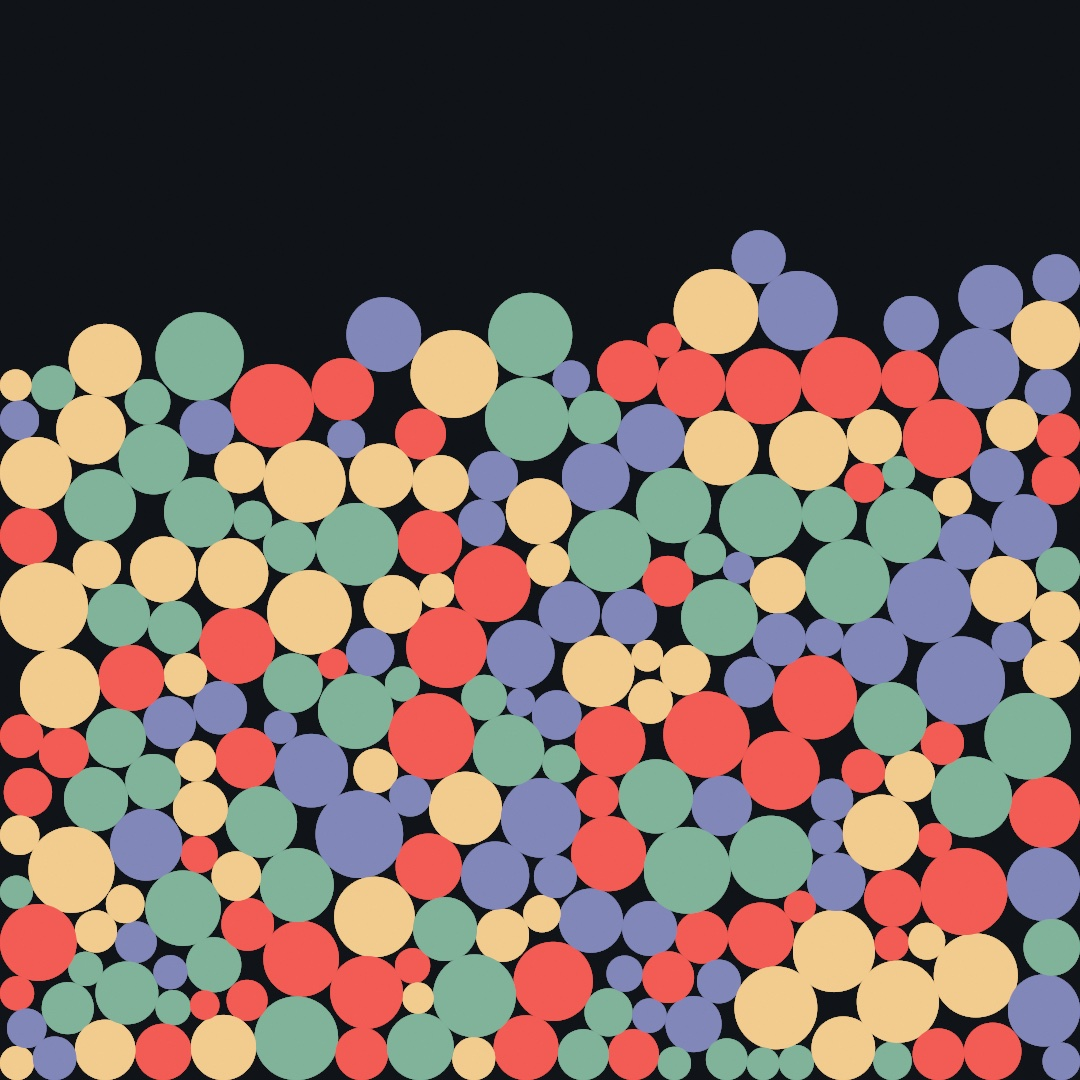
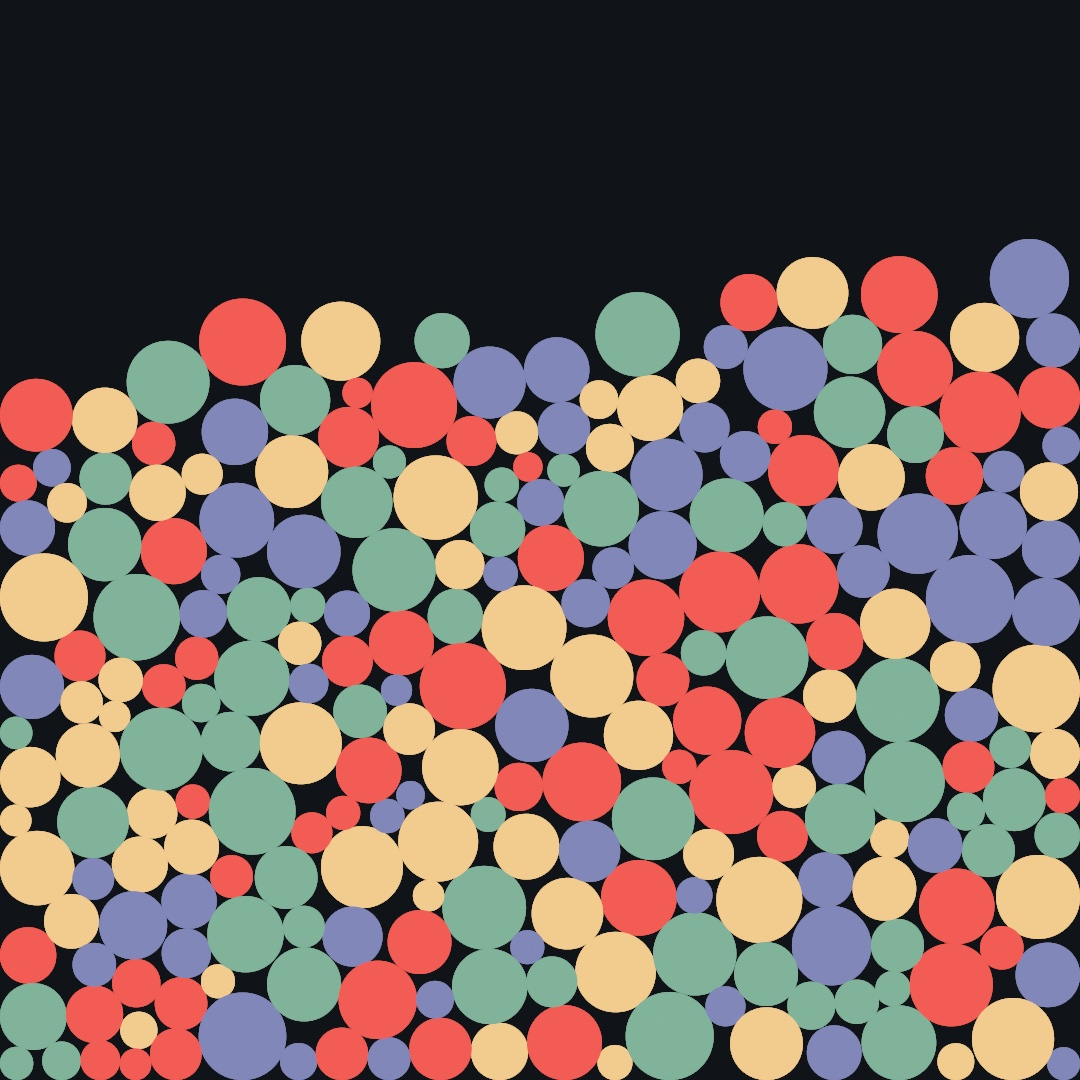
Make World disk collisions reproducible across runs
The collision pass iterated the spatial-hash Dictionary directly, and
position-mutating pair resolution is order-sensitive, so a seeded pile
settled differently on every launch (Swift randomizes hash order per
process). The pass now walks particles in index order with a fixed
3x3 cell scan, the same determinism rule Boids and the WFC solver
follow. The Guide's Pile figure now renders byte-identically run to
run (verified by hashing consecutive renders); PhysicsTests pass.

diff --git a/Sources/OllinPhysics/World.swift b/Sources/OllinPhysics/World.swift
@@ -226,16 +226,21 @@ public final class World {
             grid[cell, default: []].append(i)
         }
 
-        // Each disk against its own and the eight neighbouring buckets. The
-        // `j > i` guard resolves every pair exactly once.
-        for (cell, bucket) in grid {
+        // Each disk against its own and the eight neighbouring buckets, walked
+        // in particle-index order with a fixed cell scan. Resolution shifts
+        // positions as it goes, so the pair order changes the outcome; a
+        // Dictionary walk here would reorder per process and a seeded pile
+        // would settle differently on every run. The `j > i` guard resolves
+        // every pair exactly once.
+        for i in particles.indices where particles[i].radius > 0 {
+            let p = particles[i].position
+            let cx = Int((p.x / cellSize).rounded(.down))
+            let cy = Int((p.y / cellSize).rounded(.down))
             for dx in -1 ... 1 {
                 for dy in -1 ... 1 {
-                    guard let neighbours = grid[Cell(x: cell.x + dx, y: cell.y + dy)] else { continue }
-                    for i in bucket {
-                        for j in neighbours where j > i {
-                            resolveCollision(particles[i], particles[j])
-                        }
+                    guard let neighbours = grid[Cell(x: cx + dx, y: cy + dy)] else { continue }
+                    for j in neighbours where j > i {
+                        resolveCollision(particles[i], particles[j])
                     }
                 }
             }

diff --git a/CLAUDE.md b/CLAUDE.md
@@ -158,7 +158,7 @@ A few load-bearing rules recur across the satellites, so they're stated once her
 
 - **Video playback** (`OllinVideo` satellite). `VideoPlayer` (`@MainActor`) plays a file as a live texture-backed `Image` via `AVPlayerItemVideoOutput` → `CVMetalTextureCache` → `drawImage` (zero CPU copies); `play` / `pause` / `seek(to:)` / `loops` / `rate` / `volume`, `duration` / `size` (async), `snapshot()` for CPU/vision. Conforms `FrameSource` + `VideoFeed`, so a tracker attaches and analyzes the footage as it plays (via a second video output). **Headless export is deterministic:** under `OllinApp.isRenderingHeadless` (a `package` flag every offline driver sets) the player swaps to a virtual playhead advanced by the sketch's per-frame pass (`FrameAdvancing`, now `package` so satellites conform; isolated `@MainActor` conformance) and decodes by timestamp through a sequential `AVAssetReader` (`HeadlessVideoReader`), so exported frame `k` always shows the clip at `k/fps` after `play()` — create the player by the end of `setup()` or the advance pass never finds it. **Soundtrack tap:** `audioTap` (the core `AudioTapSource` seam) delivers mono PCM off an `MTAudioProcessingTap`; the tap's C callbacks touch only a storage object the tap itself retains (released in `finalize` — never reference the player from the callbacks; the tap can outlive it), and OllinAudio's `Soundtrack(of:)` runs the analyzer surface over it (rebuilds once at the stream's real sample rate). **Gotchas:** `.bgra8Unorm_srgb` texture; no y-flip (top-down); keep a short `CVMetalTexture` ring alive; `isMuted = true` starves the audio tap (a hard mute stops audio processing) — use `volume = 0`; a `Soundtrack`/vision tracker reads nothing during a headless export (live-clock paths). Examples `Video/VideoPlayback`, `Video/SoundReactive` (spectrum bars + beat ring over its own clip's music); `Docs/Video/Video.md`.
 
-- **Physics** (`OllinPhysics` satellite). One `World` stepped each frame, hybrid by design: a **soft Verlet side** (`Particle` — a `final class`, no stored velocity, `previous`-based; `Spring`, a positional distance constraint; `World` with gravity / drag / bounds / bounce / opt-in disk `collisions` broad-phased through a uniform spatial hash) and a **rigid side** backed by **vendored Box2D** (MIT, `External/CBox2D`) — `addBody` / `Body` / `Collider` (`.circle` / `.box` / `.capsule` / `.polygon`) / `connect` / `Joint` (`.revolute` / `.distance` / `.weld` / `.prismatic`) / `grab` (mouse joint), sharing the world's gravity / bounds / bounce / drag, bridged by `pixelsPerMeter`. **Gotchas:** `drag` compounds per step (a weightless drift field needs `drag = 0`); Box2D's world pool is a non-thread-safe global → every Box2D-touching test in one `@Suite(.serialized)`; spawn a `Body` *inside* `bounds`, not above. Examples `Physics/Packing` + `Blobs` (soft), `Stack` / `Tumble` / `Chain` (rigid); `Docs/Simulation/Physics.md`.
+- **Physics** (`OllinPhysics` satellite). One `World` stepped each frame, hybrid by design: a **soft Verlet side** (`Particle` — a `final class`, no stored velocity, `previous`-based; `Spring`, a positional distance constraint; `World` with gravity / drag / bounds / bounce / opt-in disk `collisions` broad-phased through a uniform spatial hash) and a **rigid side** backed by **vendored Box2D** (MIT, `External/CBox2D`) — `addBody` / `Body` / `Collider` (`.circle` / `.box` / `.capsule` / `.polygon`) / `connect` / `Joint` (`.revolute` / `.distance` / `.weld` / `.prismatic`) / `grab` (mouse joint), sharing the world's gravity / bounds / bounce / drag, bridged by `pixelsPerMeter`. **Gotchas:** `drag` compounds per step (a weightless drift field needs `drag = 0`); Box2D's world pool is a non-thread-safe global → every Box2D-touching test in one `@Suite(.serialized)`; spawn a `Body` *inside* `bounds`, not above; disk-collision resolution walks particles in **index order with a fixed cell scan** — never iterate the spatial-hash Dictionary directly (per-process hash order reordered the position-mutating pair resolution, so a seeded pile settled differently on every run; a real Guide-figure flake). Examples `Physics/Packing` + `Blobs` (soft), `Stack` / `Tumble` / `Chain` (rigid); `Docs/Simulation/Physics.md`.
 
 - **Computer vision** (`OllinVision` satellite). A `Camera` (or any `FrameSource`) feeds `VisionAnalyzer` (drops frames it can't keep up with; the display frame is never dropped) and composable trackers over Apple's modern Swift `Vision` API. **Sixteen trackers:** `FaceTracker` / `Face` (76-pt landmarks + roll/yaw/pitch), `ContourDetector` (camera → vector `Shape`), `HandTracker` / `Hand` (21 joints), `BodyTracker` / `Body` (2D pose), `RectangleDetector`, `BarcodeScanner`, `TextRecognizer` (OCR), `ObjectTracker` (lock + follow), `TrajectoryTracker` (parabolic arcs, predicted), `FlowTracker` / `FlowField` (dense optical flow), `PersonSegmenter` / `SubjectSegmenter` (matte + cutout `Image`s), `ImageClassifier`, `SaliencyTracker` (heat-map + regions + point query), `BodyTracker3D` / `Body3D` (17 joints in meters; canvas / model / camera space), and `ModelTracker` (*any* Core ML model — classifier labels / detector boxes / image map / semantic-segmentation `ClassMask`, decoded by observation kind). Each also runs one-shot on a still `Image` via `detect(in:)`. **Coordinate mapping is the crux:** `VisionSpace` (+ each result's `bounds(in:)` / `landmarks(_:in:)`) maps Vision's normalized lower-left origin → Ollin's pixel top-left canvas (y-flip + rect-scale + a `mirrored:` selfie flag) — map results into the *same* `camera.fittedRect(in:)` you drew the frame into, and use Apple's per-result `*InImage` helpers (never hand-roll the conversion — it over-spreads landmarks). Feeds draw via `drawFrame(_ feed:in:waiting:)`. **Hardware split:** classical CV (rectangles / barcodes / contours / object-track / trajectory / optical-flow) *and* OCR run on any Mac; the neural models (body pose, segmentation, saliency, classification, 3D pose) need Apple silicon — surfaced via `isAvailable` / `unavailableReason`. **Gotchas (pinned by probe):** trackers bind to `any FrameSource` via the core `FrameSource` seam + a per-source shared analyzer kept alive by the tap closure (formed in a free function — the render-thread rule); point queries on single-channel buffers (`flow(at:)` / `pixel(at:)`) are clampless nearest-neighbor that *trap* past the last pixel — clamp to `(n−1)/n`, and they take top-down fractions so flip y before the lookup; `InstanceMaskObservation.allInstancesMask` holds *labels*, not a soft matte (use `generateMask`); a Core ML model must load from a *stable* compiled path or it re-specializes (~10 s) every launch; `DetectTrajectoriesRequest` only works through timestamped `CMSampleBuffer`s. Model weights download via `Scripts/fetch-models.sh` (never committed; `StyleMirror`'s is user-trained). Examples span `Vision/WebcamFeed` / `FaceTracking` / `FaceAlign` / `ContourTrace` / `HandTracking` / `BodyPose` / `RectangleScan` / `BarcodeReader` / `TextScan` / `ObjectTracking` / `VideoTrace` / `TrajectoryTracking` / `PersonSegmentation` / `SubjectLift` / `OpticalFlow` / `SceneLabels` / `EyeCatcher` / `BodyPose3D` / `DepthRelief` / `ObjectDetection` / `DigitReader` / `StyleMirror` / `PaintByClass`. `Docs/Vision/Vision.md`.
 
